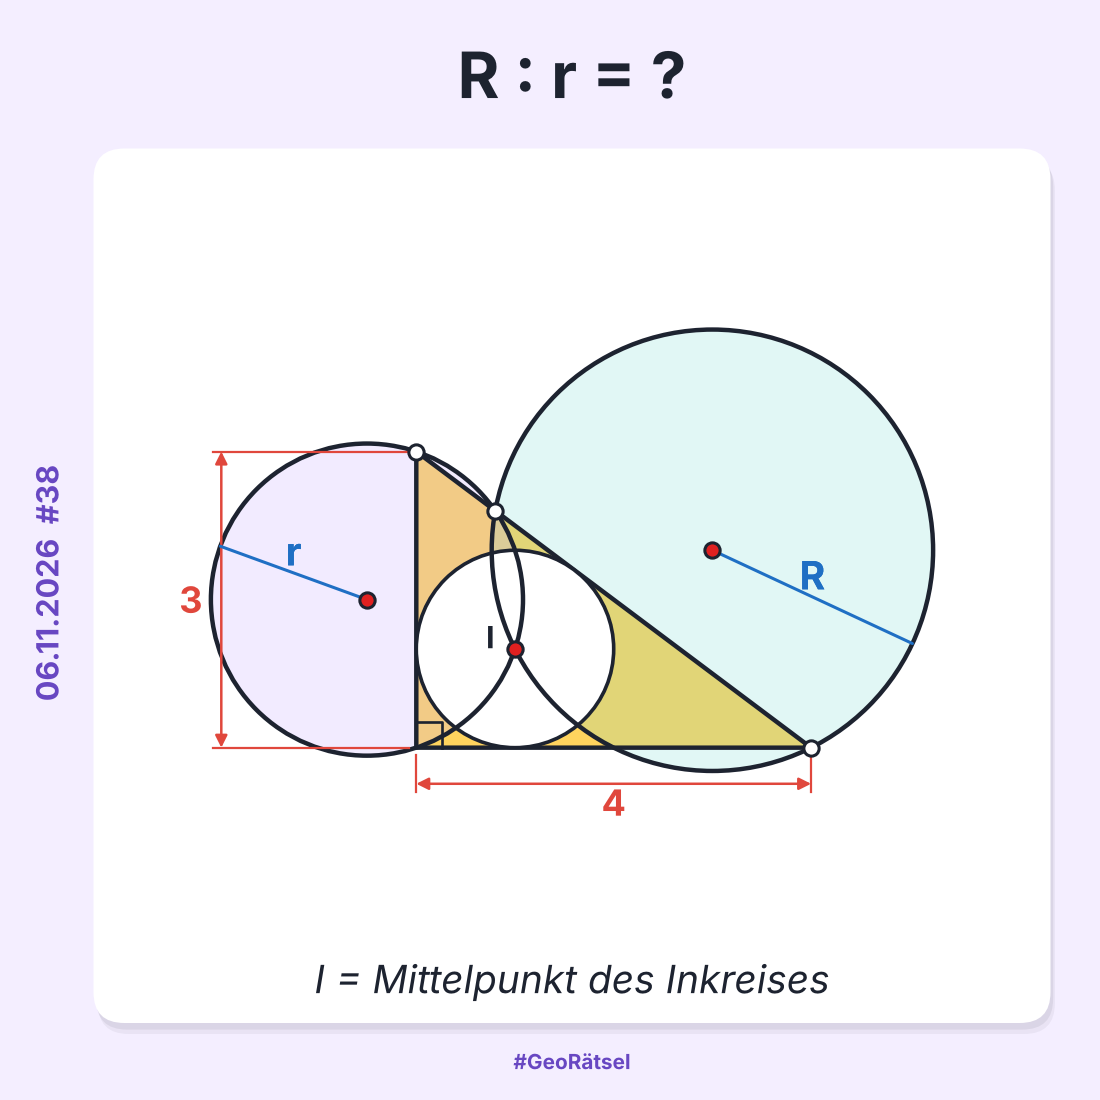
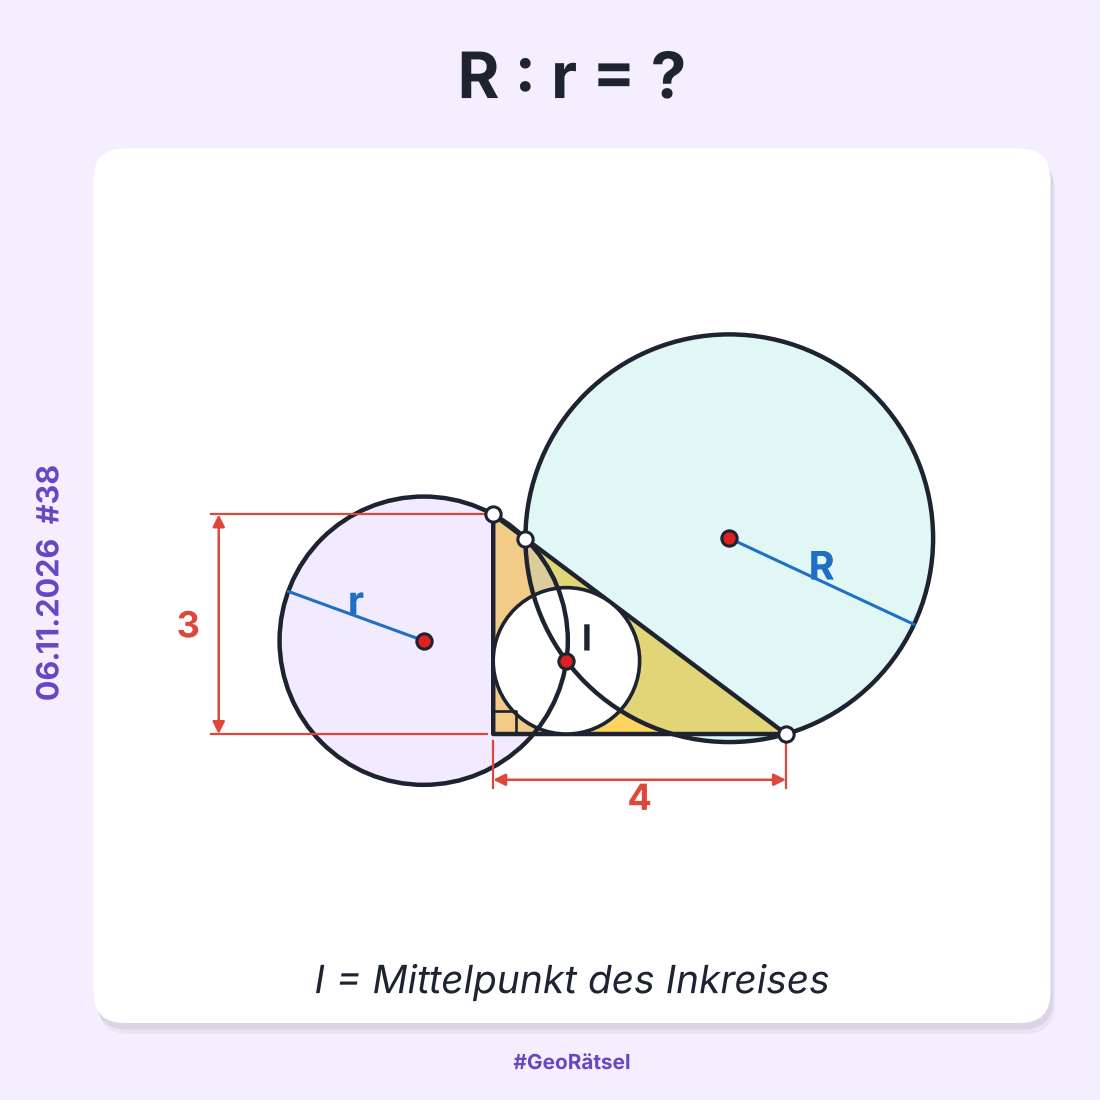
Georätsel-Serie 003 fertig: Kaltlösen-Befunde eingearbeitet, Lösungsblatt, Sperrliste
Claude-Session: https://claude.ai/code/session_0162FGHhki4SbxiLRQK3zCFd

diff --git a/georaetsel/003/nr-37.py b/georaetsel/003/nr-37.py
@@ -12,12 +12,12 @@ STICHWORT = {"de": "gleichseitiges Dreieck", "en": "equilateral triangle"}
 ANTWORT = {"de": [("Gelb", GOLD_TXT), (" : ", TINTE), ("Blau", BLAU_TXT), (" = 1 : 1", TINTE)],
            "en": [("Yellow", GOLD_TXT), (" : ", TINTE), ("Blue", BLAU_TXT), (" = 1 : 1", TINTE)]}
 SCHRITTE = {
-    "de": ["Der Winkel APB ist 60° (Umfangswinkel über AB). Mit PA = PX ist das Dreieck APX also gleichseitig.",
+    "de": ["Der graue Bogen um P zeigt: PX = PA = PY. Der Winkel APB ist 60° (Umfangswinkel über AB). Mit PA = PX ist das Dreieck APX also gleichseitig.",
            "Dreht man um A um 60°, wandert C auf B und P auf X. Darum ist BX = PC. Genauso ist CY = PB, also PA = PB + PC.",
            "Gelb = Dreieck PXY − Dreieck PBC. Beide haben bei P den Winkel 120°. Ein solches Dreieck mit den Seiten u und v hat die Fläche √3/4 · u · v.",
            "Gelb = √3/4 · ((PB + PC)² − PB · PC) = √3/4 · (PB² + PB · PC + PC²) = √3/4 · BC² (Kosinussatz mit 120°) – genau die Fläche von Blau.",
            "Gelb : Blau = 1 : 1, egal wo P auf dem Bogen liegt."],
-    "en": ["Angle APB is 60° (inscribed angle on AB). With PA = PX, triangle APX is equilateral.",
+    "en": ["The grey arc around P shows: PX = PA = PY. Angle APB is 60° (inscribed angle on AB). With PA = PX, triangle APX is equilateral.",
            "Turn by 60° around A: C goes to B and P goes to X. So BX = PC. In the same way CY = PB, so PA = PB + PC.",
            "Yellow = triangle PXY − triangle PBC. Both have a 120° angle at P. Such a triangle with sides u and v has area √3/4 · u · v.",
            "Yellow = √3/4 · ((PB + PC)² − PB · PC) = √3/4 · (PB² + PB · PC + PC²) = √3/4 · BC² (cosine rule with 120°) – exactly the area of blue.",
@@ -47,11 +47,15 @@ def figur(ax, loesung=False):
     bereich(ax, blau.difference(gelb), HELLBLAU)
     bereich(ax, gelb.intersection(blau), HELLBLAU, schraffur="/", schraffur_farbe=GOLD)
     kreis(ax, (0, 0), R)
-    zug(ax, [A, B, C]); zug(ax, [B, X, Y, C]); linie(ax, P, B); linie(ax, P, C); linie(ax, P, A, lw=2.4)
-    strich(ax, P, A, t=0.14); strich(ax, P, X, t=0.72); strich(ax, P, Y, t=0.72)
+    zug(ax, [A, B, C]); zug(ax, [B, X, Y, C]); linie(ax, P, X); linie(ax, P, Y); linie(ax, P, A, lw=2.4)
+    # Zirkelbogen um P durch X, A, Y: zeigt PX = PA = PY
+    wx = math.degrees(math.atan2(X[1]-P[1], X[0]-P[0])); wy = math.degrees(math.atan2(Y[1]-P[1], Y[0]-P[0]))
+    from matplotlib.patches import Arc
+    pa = abst(P, A)
+    ax.add_patch(Arc(P, 2*pa, 2*pa, theta1=wy - 4, theta2=wx + 4, edgecolor=GRAU, lw=1.8, zorder=5))
     strich(ax, A, B, 2, t=0.4); strich(ax, B, C, 2, t=0.22); strich(ax, C, A, 2, t=0.6)
-    zug(ax, [B, X, Y, C], lw=LW*1.25)
-    for p in (A, B, C, P, X, Y): punkt(ax, p)
+    for p in (A, B, C, X, Y): punkt(ax, p)
+    punkt(ax, P, "rot")
     if loesung:
         hilfslinie(ax, A, X)
         winkel(ax, P, Y, X, "120°", r=6, groesse=17, text_abstand=1.9)

diff --git a/georaetsel/003/nr-38.py b/georaetsel/003/nr-38.py
@@ -24,7 +24,7 @@ SCHRITTE = {
 C, A, B = (0.0, 0.0), (4.0, 0.0), (0.0, 3.0)
 I, RI = inkreis(A, B, C)
 
-def bau(t=0.8):
+def bau(t=0.89):
     P = (A[0] + t*(B[0]-A[0]), A[1] + t*(B[1]-A[1]))
     return P, umkreis(A, I, P), umkreis(B, I, P)
 
@@ -45,8 +45,8 @@ def figur(ax, loesung=False):
     zug(ax, [A, B, C])
     kreis(ax, I, RI, lw=2.6, farbe=WEISS, z=3)
     rechter_winkel(ax, C, A, B, groesse=3.5)
-    masslinie(ax, C, A, "4", seite=-1, abstand=5)
-    masslinie(ax, B, C, "3", seite=-1, abstand=27)
+    masslinie(ax, C, A, "4", seite=-1, abstand=7)
+    masslinie(ax, B, C, "3", seite=-1, abstand=42)
     for m, rr, w, t in ((m1, R1, -25, "R"), (m2, R2, 160, "r")):
         e = (m[0] + rr*math.cos(math.radians(w)), m[1] + rr*math.sin(math.radians(w)))
         linie(ax, m, e, lw=2.2, farbe=GESUCHT, z=6); punkt(ax, m, "rot")
@@ -62,4 +62,4 @@ def figur(ax, loesung=False):
                              (I, "I", -0.25, 0.12), (P, "P", 0.28, 0.12), (T, "T", 0.22, 0.25)):
             buchstabe(ax, p, s, dx, dy)
     else:
-        buchstabe(ax, I, "I", -0.25, 0.12)
+        buchstabe(ax, I, "I", 0.28, 0.32, groesse=26)

diff --git a/georaetsel/003/loesungen.md b/georaetsel/003/loesungen.md
@@ -37,3 +37,7 @@ Aussortiert: zwei Kandidaten, weil die Prüfer sie als Standardrätsel oder Lemm
 ## Prüfungen
 - Jede Lösung mit 40–200 zufälligen Figuren nachgerechnet (`nr-XX.py`, Funktion `pruefen`).
 - Ideen: 24 eigene Figuren durchsucht (3 Funde), dazu 8 Ideen vom Ideengeber (7 davon aus der Invariantensuche).
+- Kaltlösen (Opus): alle 4 Karten nur aus dem Bild richtig gelöst. Keine wirkt wie eine Kopie; „erinnert an“ Vecten-Figuren (#35), das Tangenten-Lemma in der Raute (#36), van Schooten (#37), das Trillium-Lemma (#38) – mit eigenem Dreh. Stufen: schwer, mittel, schwer, schwer.
+- Befund Kaltlösen #38: In der ersten Zeichnung lag P zufällig so, dass der kleine Kreis auch durch die rechtwinklige Ecke ging – irreführend. P neu gesetzt (per Suche ohne Zufallszusammenhänge). #37: Gleichheits-Striche auf PX waren mehrdeutig → ersetzt durch einen grauen Zirkelbogen um den roten Punkt P.
+- Kaltlesen (Sonnet) und zweiter Durchgang: Halbkreis ohne gelbliche Füllung (#35, „Gelb“ eindeutig), Rechte-Winkel-Marken an den Quadraten, Radius mit rechtem Winkel zum Berührpunkt (#36), Doppelstriche für das gleichseitige Dreieck und Mittelpunkt des Bogens markiert (#37), ruhigere Farben, Ecken markiert und Maßlinien (#38).
+- Nebenbei entdeckt: Bei #37 geht die Linie XY für jede Lage von P durch den Kreismittelpunkt – kein Zufall der Zeichnung, sondern eine echte Eigenschaft.

diff --git a/.claude/skills/georaetsel/SKILL.md b/.claude/skills/georaetsel/SKILL.md
@@ -116,6 +116,7 @@ Vorher die Vorlagen in `referenz/` ansehen und `referenz/stil.md` lesen. Die Vor
 - Quadrat und Kreis auf einer Geraden, Abstand x (beispiel-16)
 - Quadrat mit vier Viertelkreisen und Quadrat in der Mitte (beispiel-19)
 - Rechteck mit Inkreis-Paaren der Teildreiecke (r1² + r2² = r²), Tangententrapez mit r² = Produkt der Schenkelstücke, gestapelte Inkreise im Trapez, Kreis durch die Berührpunkte dreier Kreise, Quadrat mit Lot auf DP (AF · DP = s²) – Serie 002
+- Quadrate über den Seiten eines Thales-Dreiecks mit Dreieck zum Bogenscheitel; Raute mit Inkreis-Tangente (Dreieck zur Gegenecke); van-Schooten-Verlängerung mit Viereck = Dreieck; Kreise durch Inkreismittelpunkt und Punkt auf der Hypotenuse – Serie 003
 - alle Motive aus `referenz/` und aus früheren Serien (siehe 3.1)
 Die Liste nach jeder Serie um neu entdeckte Standardmotive ergänzen.
 
